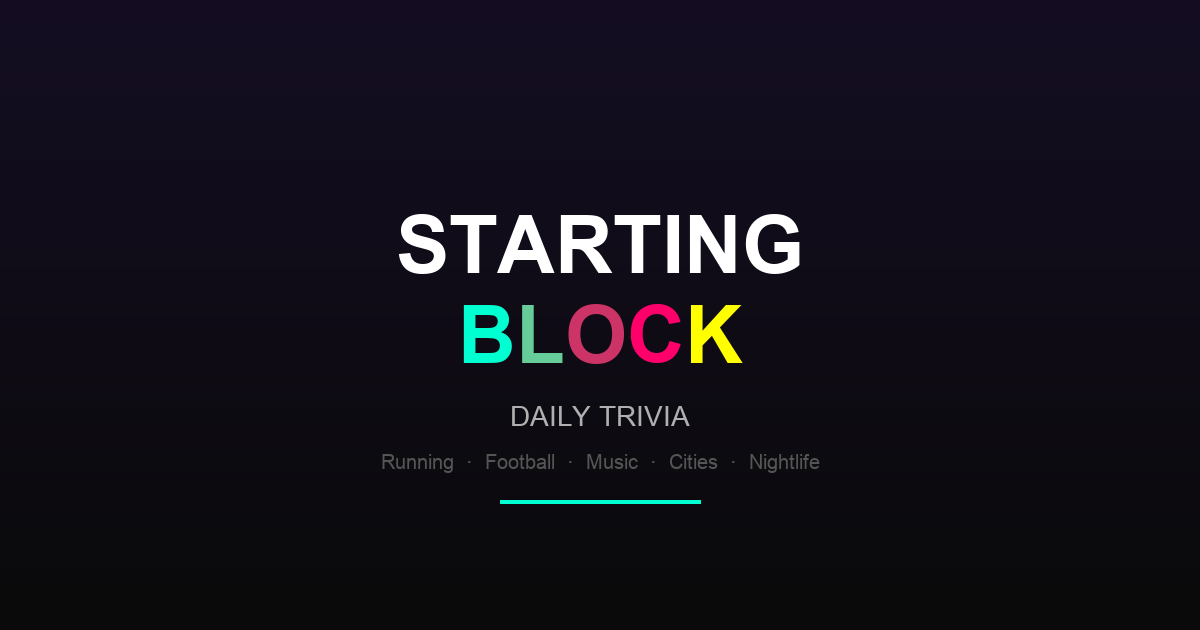
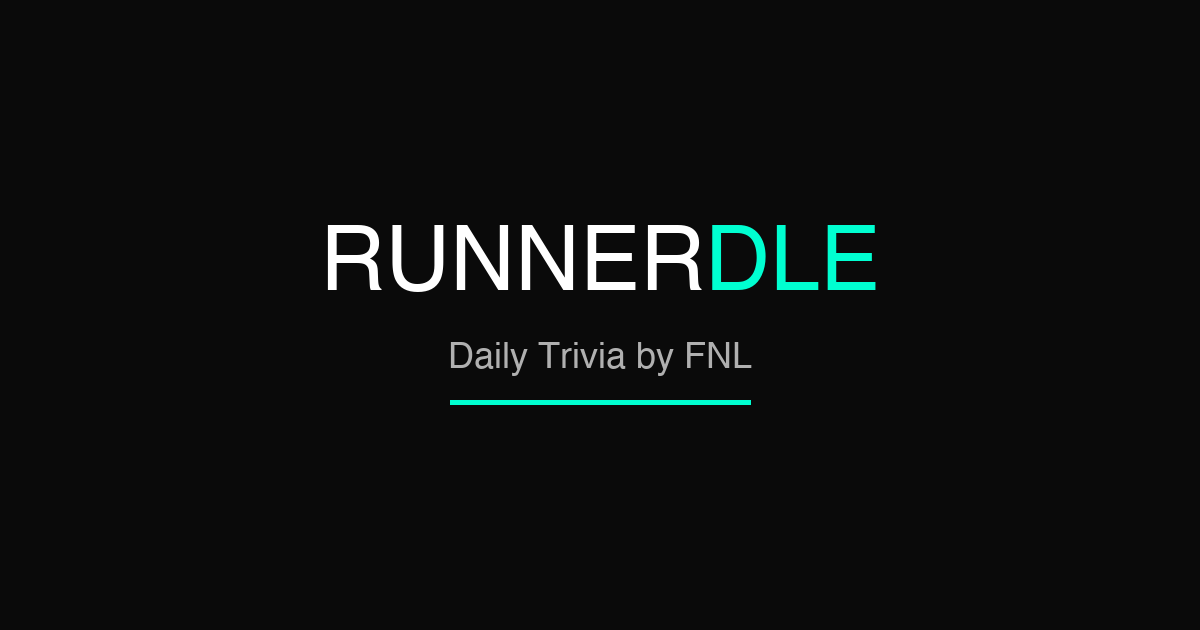
Rename game from Starting Block to Runnerdle
Updated title, OG tags, logo, share text, and OG image.

diff --git a/index.html b/index.html
@@ -3,10 +3,10 @@
 <head>
   <meta charset="UTF-8">
   <meta name="viewport" content="width=device-width, initial-scale=1.0, maximum-scale=1.0, user-scalable=no">
-  <title>Starting Block — Daily Trivia</title>
+  <title>Runnerdle — Daily Trivia</title>
 
   <!-- WhatsApp / Social OG Tags -->
-  <meta property="og:title" content="Starting Block — Daily Trivia">
+  <meta property="og:title" content="Runnerdle — Daily Trivia">
   <meta property="og:description" content="Test your knowledge. Running. Football. Music. Cities. One question a day.">
   <meta property="og:type" content="website">
   <meta property="og:url" content="https://startingblock.netlify.app">
@@ -16,7 +16,7 @@
 
   <!-- Twitter Card -->
   <meta name="twitter:card" content="summary_large_image">
-  <meta name="twitter:title" content="Starting Block — Daily Trivia">
+  <meta name="twitter:title" content="Runnerdle — Daily Trivia">
   <meta name="twitter:description" content="Test your knowledge. Running. Football. Music. Cities. One question a day.">
   <meta name="twitter:image" content="https://startingblock.netlify.app/og-image.png">
 
@@ -777,7 +777,7 @@
   <div class="container">
     <!-- Header -->
     <div class="header">
-      <div class="logo">STARTING <span class="highlight">BLOCK</span></div>
+      <div class="logo">RUNNER<span class="highlight">DLE</span></div>
       <div class="tagline">Daily Trivia</div>
     </div>
 

diff --git a/game.js b/game.js
@@ -1,4 +1,4 @@
-// Starting Block — Game Logic
+// Runnerdle — Game Logic
 // Firebase + Speed Tracking + Weekly Leaderboard + Streak Tiers
 
 (function () {
@@ -469,7 +469,7 @@
     var tierStr = tier ? ' — ' + tier.name : '';
 
     var pbStr = (todayResult.correct && stats.pb !== null && todayResult.time <= stats.pb) ? '\n⚡ New PB!' : '';
-    var text = 'Starting Block #' + dayNum + ' ' + emoji + '\n' + word + timeStr + '\n🔥 ' + stats.streak + ' day streak' + tierStr + pbStr + '\n\nstartingblock.netlify.app';
+    var text = 'Runnerdle #' + dayNum + ' ' + emoji + '\n' + word + timeStr + '\n🔥 ' + stats.streak + ' day streak' + tierStr + pbStr + '\n\nstartingblock.netlify.app';
 
     if (navigator.share) {
       navigator.share({ text: text }).catch(function () { fallbackCopy(text); });

diff --git a/questions.js b/questions.js
@@ -1,4 +1,4 @@
-// Starting Block — Question Bank
+// Runnerdle — Question Bank
 // Categories: running, football, music, cities, nightlife, culture
 // Each question: { category, question, options[], answer (index), fact }
 
